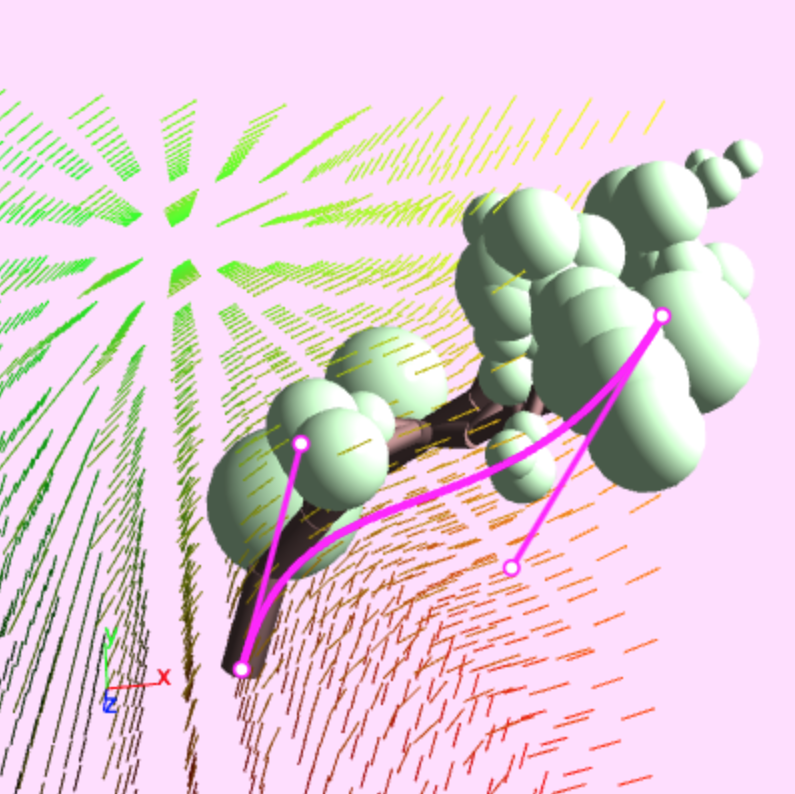
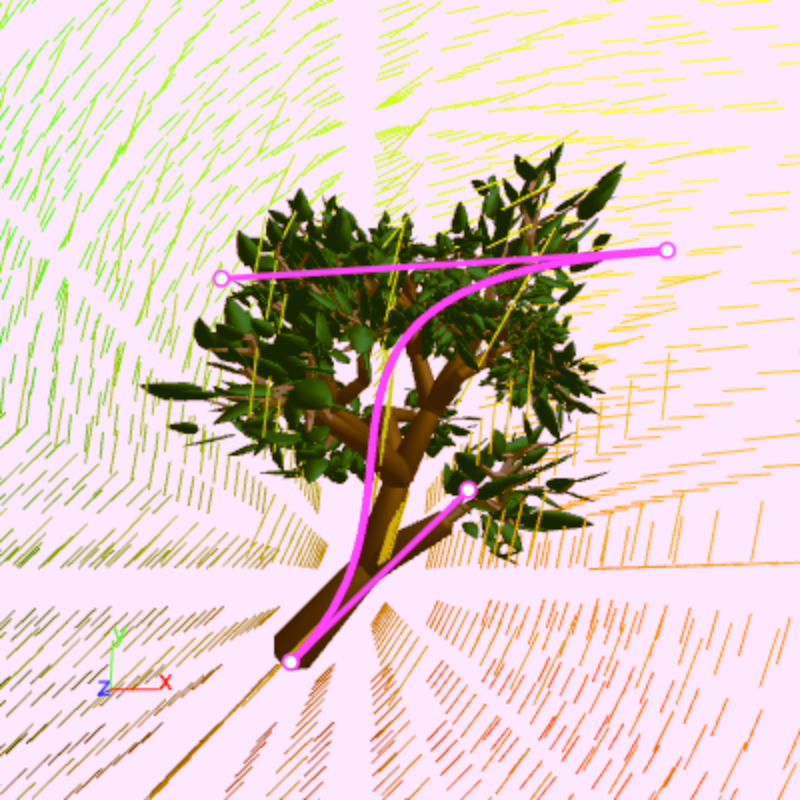
Finish post

diff --git a/content/blog/procedural-modelling.html b/content/blog/procedural-modelling.html
@@ -2,7 +2,9 @@
 {
   "title": "Improving the procedural modelling workflow",
   "category": "blog",
-  "date": "2018-11-14",
+  "date": "2018-11-17",
+  "thumbnail": "%root%/content/images/2018/11/tree-render-thumbnail.jpg",
+  "og-image": "%root%/content/images/2018/7/example.png",
   "excerpt": "A discussion of the most tedious parts of something made to make modelling less tedious, and how they can be improved."
 }
 -->
@@ -11,11 +13,13 @@ There are a lot of things in art that are hard, but are *especially* hard in 3D.
 
 Say you wanted to make a forest landscape. If this were a painting, you probably wouldn't paint every leaf on every tree. Firstly, you don't have to worry about the ones you can't see. But even for the ones you can see, you're able to get away with using less detail in areas that aren't the focus. The patterns can be abstracted into dabs of paint that give the impression of leaves without the effort of clearly defining each one.
 
+<img src="%root%/content/images/2018/11/mc-trees-medium.jpg" full="%root%/content/images/2018/11/mc-trees.jpg" caption="Detail of some trees in a digital paintaing of mine, demonstrating my freedom to not add much detail." />
+
 3D doesn't afford this luxury. For better or for worse, everything in 3D graphics as we know it must be attached to some well-defined form. There's no way to dab a brush here and there just yet. Less detail could be used off in the distance, but in many cases, 3D is being used specifically so that a world can be inhabited, walked around, and explored, so there may not be a region that's "in the distance" all the time.
 
 You can try to save effort by modelling a tree and copy-and-pasting it around. Of course, the difficulty with this is that the regularity will look unnatural. You can rotate and distort them as you go to add some variation, and that may help, but it can only go so far. To get rid of that unwanted regularity, you'd want to apply the same process to components of each pasted tree, not just the whole thing, so that the overall model looks different. While this may be faster than modelling each tree from scratch, this still ends up being a lot of manual effort.
 
-It gets to a point where it becomes easier to describe the *procedure* with which models are created than to create the models by hand. This is what procedural modelling is: where you create a program of sorts that then creates models.
+It gets to a point where it becomes easier to describe the *procedure* with which models are created than to create the models by hand. This is what procedural modelling is: the creation of a program of sorts that then creates models. I've spent a fair amount of time recently trying to make this process better, so I'm going to explain some background and the techniques I used.
 
 ## Generating from grammars
 
@@ -120,7 +124,7 @@ Now, let's make a tree that branches into two each time. Instead of scaling and 
   <tr>
     <th>`BRANCH`</th><td>`lineTo(0, -50)` `translate(0, -50)` `circle(30)` (`SUB_BRANCHES` | &epsilon;)</td>
   </tr>
-  <tr>
+  <tr class="highlighted">
     <th>`SUB_BRANCHES`</th><td>`scale(0.5)` `[` `rotate(-30)` `BRANCH` `]` `[` `rotate(20)` `BRANCH` `]`</td>
   </tr>
 </table>
@@ -131,7 +135,7 @@ This is what happens when you generate trees using the stack of remembered orien
 
 This lets us express a lot of ideas, but it suffers from the problem mentioned earlier when discussing copy-and-pasting: it looks too regular. We can introduce random variation into our grammar by replacing concrete numbers with `random(a, b)`, which, when interpreted by the drawing program, will generate a random number between `a` and `b` inclusive.
 
-Here's our grammar again, with random variation added:
+Here's our grammar again, with random variation added in the highlighted rule definition:
 
 <table>
   <tr>
@@ -143,7 +147,7 @@ Here's our grammar again, with random variation added:
   <tr>
     <th>`SOME_BRANCHES`</th><td>`SCALED_BRANCH` (`SOME_BRANCHES` | &epsilon;)</td>
   </tr>
-  <tr>
+  <tr class="highlighted">
     <th>`SCALED_BRANCH`</th><td>`[` `scale(random(0.4, 0.8))` `rotate(random(-40, 40))` `BRANCH` `]`</td>
   </tr>
 </table>
@@ -177,7 +181,7 @@ How would you cap the number of chained clauses to, say, four? There's no magic 
 
 <table>
   <tr><th>`SENTENCE`</th><td>`CLAUSE` `COMPOUND`</td></tr>
-  <tr><th>`COMPOUND`</th><td>(`and` `CLAUSE` | &epsilon;) (`and` `CLAUSE` | &epsilon;) (`and` `CLAUSE` | &epsilon;) (`and` `CLAUSE` | &epsilon;)</td></tr>
+  <tr class="highlighted"><th>`COMPOUND`</th><td>(`and` `CLAUSE` | &epsilon;) (`and` `CLAUSE` | &epsilon;) (`and` `CLAUSE` | &epsilon;) (`and` `CLAUSE` | &epsilon;)</td></tr>
   <tr><th>`CLAUSE`</th><td>`NOUN` `VERB_PHRASE`</td></tr>
   <tr><th>`VERB_PHRASE`</th><td>`VERB` (`NOUN` | &epsilon;)</td></tr>
   <tr><th>`NOUN`</th><td>`abacus` | `babboon` | `cantaloupe` | ...</td></tr>
@@ -197,7 +201,7 @@ Especially when dealing with grammars, it can often be easier to specify whether
 We can assign a score to every picture representing how close its silhouette is to the target. It might look something like this, in pseudocode:
 
 <code>
-function score(image, target) {
+function score(image) {
   // First, fill all the shapes in the outputted image
   // to get its silhouette
   let filled = flood_fill_all_gaps(image)
@@ -230,7 +234,7 @@ When we define a grammar, we are also defining the set of all possible things it
   <li><strong>Every time `random(a, b)` is used.</strong> If this produces a random value from a continuous distribution, then technically there is a probability of 0 that a specific value is chosen (e.g. 0.5 rather than 0.4999... or 0.500...01.) In practice, as a substitute, we can look at the random number generator's <a href="https://en.wikipedia.org/wiki/Probability_density_function">probability density function (pdf)</a> as a measure of how likely a given value is compared to other values. The total area under a pdf curve from negative infinity to infinity is always 1, and is distributed across that domain according to how likely that region is to be generated. If `random(0, 1)` is uniformly distributed, the pdf of any value between 0 and 1 is 1, indicating that they are equally likely.</li>
 </ol>
 
-Even if we ignore the second case, our grammar requires making one choice for every branch present after the first one. There are eight branches off of the base one in the tree above, so the probability of generating the same structure of that tree is 0.5<sup>8</sup> = 0.00390625. If we make a generous approximation and assume `random()` generates one of ten values within a given range each time, because each branch makes two of these calls, we introduce a factor of (0.1 &times; 0.1)<sup>8</sup> = 1 &times; 10<sup>-16</sup>. Altogether, that's around 3.9 &times; 10<sup>-19</sup>. You will need a lot of random samples to generate a tree in this particular configuration.
+Starting with the first case, our grammar requires making one choice for every branch present after the first one. There are eight branches off of the base one in the particular tree shown earlier, so the probability of generating the same structure of that tree is 0.5<sup>8</sup> = 0.00390625. To look at the second case, if we make a generous approximation and assume `random()` generates one of ten values within a given range each time, then because each branch makes two of these calls, we introduce a factor of (0.1 &times; 0.1)<sup>8</sup> = 1 &times; 10<sup>-16</sup>. Altogether, that's around 3.9 &times; 10<sup>-19</sup>. You will need a lot of random samples to generate a tree in this particular configuration. This is all a contrived example, since we never have *one* exact tree we are hoping to produce, but the point here is that there are many possibilities in the grammar output.
 
 Luckily, there are ways to focus the search.
 
@@ -271,8 +275,8 @@ Since the source code for a program conforms to a grammar just like human langua
 And then you maybe have a line like this in your program:
 
 <table>
-  <tr><th>`something`</th><th rowspan="4">`=`</th><th>`something`</th><th>`+`</th><th>`1`</th></tr>
-  <tr><td rowspan="3">IDENTIFIER</td><td rowspan="2">IDENTIFIER</td><td rowspan="2">OPERATOR</td><td>NUMBER</td></tr>
+  <tr><th>`something`</th><th rowspan="4">`=`</th><th>`something`</th><th>`+`</th><th class="highlighted">`1`</th></tr>
+  <tr><td rowspan="3">IDENTIFIER</td><td rowspan="2">IDENTIFIER</td><td rowspan="2">OPERATOR</td><td class="highlighted">NUMBER</td></tr>
   <tr><td>EXPRESSION</td></tr>
   <tr><td colspan="3">EXPRESSION</td></tr>
   <tr><td colspan="5">ASSIGNMENT</td></tr>
@@ -281,9 +285,9 @@ And then you maybe have a line like this in your program:
 To generate a mutant, we want to replace some subtree of the breakdown above with a different option from the grammar. We can see that there is an `EXPRESSION` rule which is just a `NUMBER` with a `1` in it. We could replace it with a different `EXPRESSION` that is just as valid, such as `1 / 8`.
 
 <table>
-  <tr><th>`something`</th><th rowspan="5">`=`</th><th>`something`</th><th>`+`</th><th>`1`</th><th>`/`</th><th>`8`</th></tr>
-  <tr><td rowspan="4">IDENTIFIER</td><td rowspan="3">IDENTIFIER</td><td rowspan="3">OPERATOR</td><td rowspan="2">NUMBER</td><td rowspan="2">OPERATOR</td><td>NUMBER</td></tr>
-  <tr><td>EXPRESSION</td></tr>
+  <tr><th>`something`</th><th rowspan="5">`=`</th><th>`something`</th><th>`+`</th><th class="highlighted">`1`</th><th class="highlighted">`/`</th><th class="highlighted">`8`</th></tr>
+  <tr><td rowspan="4">IDENTIFIER</td><td rowspan="3">IDENTIFIER</td><td rowspan="3">OPERATOR</td><td rowspan="2" class="highlighted">NUMBER</td><td rowspan="2" class="highlighted">OPERATOR</td><td class="highlighted">NUMBER</td></tr>
+  <tr><td class="highlighted">EXPRESSION</td></tr>
   <tr><td colspan="3">EXPRESSION</td></tr>
   <tr><td colspan="5">EXPRESSION</td></tr>
   <tr><td colspan="7">ASSIGNMENT</td></tr>
@@ -291,7 +295,7 @@ To generate a mutant, we want to replace some subtree of the breakdown above wit
 
 The hope is that some test notices that things stop working the same way after making this mutation, and if it doesn't notice, we should write a test that uses this part of the source code.
 
-For MCMC sampling of our images, we do something similar. An image is actually the product of a decision tree we made as we broke down rules into more rules to generate the drawing instructions. We can make a new image by taking a subtree of the original image's drawing instructions grammar breakdown and replacing it with a different but also valid subtree. When picking a subtree to replace, we want to have the likelihood of a given subtree being replaced to be proportional to the likelihood of that subtree being generated in the first place so that we don't spend a disproportionate amount of time messing around in the little details of the extremities of a shape. We already talked about how likely a whole image is to be generated, and the likelihood of a subtree being generated is pretty much the same. The only difference is that we start looking at choices made at the beginning of the subtree rather than at the very start of the whole breakdown.
+For MCMC sampling of our images, we do something similar. An image is actually the product of a decision tree we made as we broke down rules into more rules to generate the drawing instructions. We can make a new image by taking a subtree of the original image's drawing instructions grammar breakdown and replacing it with a different but also valid subtree. When picking a subtree to replace, we want to have the likelihood of a given subtree being replaced to be proportional to the likelihood of that subtree being generated in the first place so that we don't spend a disproportionate amount of time messing around in the little details of the extremities of a shape. We already talked about how likely a whole image is to be generated, and the likelihood of a subtree being generated is pretty much the same. The only difference is that we start looking at choices made at the beginning of a *sub*tree rather than at the very top of the whole breakdown.
 
 <img width="900" src="%root%/content/images/2018/11/subtree-replacement.png" full="%root%/content/images/2018/11/subtree-replacement.png" caption="A mutation involves picking a subtree of drawing instructions generated by the grammar and replacing them with a different but also valid subtree." />
 
@@ -301,7 +305,9 @@ Unfortunately, MCMC sampling with a silhouette-matching score function is still 
 
 One issue is that it is not "cheap" to generate a final image for each sample in each iteration of the MCMC process. Because a piece of the shape is removed and recreated differently in each successive sample, the image can't be reused, so it gets thrown out and regenerated from scratch. If we were only adding to the previous sample, though, we could keep the old image and modify it, which saves valuable computation time.
 
-This is where Sequential Monte Carlo (SMC) sampling becomes useful. SMC sampling was created for making probabilistic inferences as incremental information comes in. In our case, rather than taking a complete shape and mutating it, we can use SMC to guide the search as each rule in the grammar is incrementally broken down into more rules. Rather than having one reference shape at a time, SMC holds multiple shapes in each iteration. They all start out as a top-level grammar rule waiting to be broken down. In each sampling iteration, every shape is broken down by one increment. The score of each shape is then calculated. If there were *n* shapes in this sampling iteration, *n* shapes are picked to be expanded for the next generation, where shapes with higher scores are more likely to be picked. This means that a very promising partially-generated shape from one iteration can appear multiple times in the next iteration, where each copy continues to be generated independently. This helps the algorithm spend more time exploring the various subtrees of higher-scoring shapes.
+This is where <a href="https://cocolab.stanford.edu/papers/RitchieEtAl2015-SIGGRAPH.pdf">Sequential Monte Carlo (SMC) sampling</a> becomes useful. SMC sampling was created for making probabilistic inferences as incremental information comes in. In our case, rather than taking a complete shape and mutating it, we can use SMC to guide the search as each rule in the grammar is incrementally broken down into more rules, where samples break down one piece in each iteration of the algorithm. When we calculate `score(sample)`, since the sample is only different from its "parent" due to the addition of one expanded grammar rule, we can instead calculate `score_from_parent + score(new piece)`, where `score_from_parent` has already been computed from the last round of sampling, so the only new computation is done for the single piece that has been added.
+
+Rather than having one reference shape at a time, SMC holds multiple shapes in each iteration. They all start out as a top-level grammar rule waiting to be broken down. In each sampling iteration, every shape is broken down by one increment. If there were *n* shapes in this sampling iteration, *n* shapes are picked to be expanded for the next generation, where shapes with higher scores are more likely to be picked. This means that a very promising partially-generated shape from one iteration can appear multiple times in the next iteration, where each copy continues to be generated independently. This helps the algorithm spend more time exploring the various subtrees of higher-scoring shapes.
 
 This is the algorithm, written out:
 
@@ -315,3 +321,102 @@ This is the algorithm, written out:
 </ol>
 
 <img width="800" src="%root%/content/images/2018/11/smc.png" full="%root%/content/images/2018/11/smc.png" caption="SMC spending more time expanding the samples in the previous generation that had the best scores." />
+
+## Better score functions
+
+So far, I've just been giving examples for 2D procedural generation. What does a score function look like in 3D? We could still use silhouette matching, but this has some downsides:
+
+<ul>
+  <li>Rendering a 3D scene into a 2D view is expensive, and we have to do it for many samples over the course of one search.</li>
+  <li>A silhouette is 2D, so we would only be specifying appearance from one angle, which can be interesting, but isn't super useful.</li>
+</ul>
+
+To address the second point, you can imagine extending the silhouette to 3D. An artist could provide a target 3D shape to fill. This comes with its own concerns:
+
+<ul>
+  <li>Computing 3D space utilization is also fairly expensive. It typically involves voxelizing the model and constructing 3D grids or octrees to record which voxel regions are occupied.</li>
+  <li>It's a lot easier to draw a target silhouette than to create a target 3D shape. If you have to model a target shape, it's not that much more effort to just create the final model by hand.</li>
+</ul>
+
+Both of these methods unfortunately still take seconds to run, so artists can't make changes and get realtime feedback.
+
+In an ideal scenario, here's what we would want out of our score function:
+<ul>
+  <li>It should be easy for an artist to specify. For example, they shouldn't have to create a detailed 3D model to use the score function.</li>
+  <li>It shouldn't overconstrain the search. We *want* some amount of variation in resulting models, otherwise we wouldn't be using procedural modelling.</li>
+  <li>It should work well in 3D.</li>
+  <li>The score for a sample should be able to be computed as an addition to the score for the sample's parent so that SOSMC works efficiently.</li>
+  <li>It should be computationally inexpensive so that the search can be run at interactive rates.</li>
+</ul>
+
+### Model skeletons
+
+Most of the computational inefficiencies in 3D come from dealing with complex geometry. Creating a bitmap image from a model to use in a silhouette comparison involves first applying perspective to every vertex, and then filling in each pixel between these vertices. Matching a target shape in 3D doesn't require perspective to be applied to each vertex, but then instead of filling in pixels, time has to be spent filling in voxels. It is helpful, then, to not look at geometry when making a score function.
+
+Models generated from procedural grammars tend to have some sort of underlying structure in the placement of pieces, regardless of the pieces themselves. In the context of our earlier 2D grammar, I'm talking about the heirarchy produced by saving and restoring paper positions that were made with `translate`, `rotate`, and `scale`. If, every time we change the orientation of the paper, we were to draw a line between the current pen position and the last pen position atop the paper, we would be drawing what looks like the skeleton of the shape. Here is what it looks like in 3D when you do this, connecting points with some diamonds instead of lines:
+
+<div class="row">
+  <div class="column uncentered">
+    <img width="400" src="%root%/content/images/2018/11/tree-no-bones.jpg" full="%root%/content/images/2018/11/tree-no-bones.jpg" caption="A 3D tree, made from simple geometry, like our 2D variant." />
+  </div>
+  <div class="column uncentered">
+    <img width="400" src="%root%/content/images/2018/11/tree-bones.jpg" full="%root%/content/images/2018/11/tree-bones.jpg" caption="The skeleton of the tree, visualized." />
+  </div>
+</div>
+
+The nice thing about working with these skeletons is that each "bone" in the skeleton is only defined by two points (or a point and a direction vector.) As long as the final geometry we attach aligns with the hierarchy, we can use a score function that operates on these bones. This isn't a huge assumption, as it takes extra wasted effort for an artist to create a heirarchy and then place geometry that isn't aligned with it. Most models follow this sort of heirarchy, even for models that aren't trees. For example, here is a cathedral, and even with a tangled mess of bones, it is clear that the shapes produced by the geometry and the skeleton are aligned.
+
+<div class="row">
+  <div class="column uncentered">
+    <img width="400" src="%root%/content/images/2018/11/cathedral-no-bones.jpg" full="%root%/content/images/2018/11/cathedral-no-bones.jpg" caption="A 3D cathedral, where imported 3D models are used as building blocks instead of primitive shapes." />
+  </div>
+  <div class="column uncentered">
+    <img width="400" src="%root%/content/images/2018/11/cathedral-bones.jpg" full="%root%/content/images/2018/11/cathedral-bones.jpg" caption="The skeleton of the cathedral, visualized." />
+  </div>
+</div>
+
+### Guiding curves
+
+One way to get a score for a model based only off of its skeleton is to compare the bones in the skeleton to guiding curves that an artist draws. For each new bone added when expanding grammar rules, the score is based off of two things:
+
+<ol>
+  <li>**Alignment with the guiding curves.** The direction of the bone is compared with the direction of the closest guiding curve at the closest point on the curve. Bones that are more precisely aligned get a higher score.</li>
+  <li>**Distance from the guiding curves.** Bones that are closer to a guiding curve get a higher score.</li>
+</ol>
+
+Together, these two factors encourage bones that stick close to the guides and go in the same direction (as opposed to oscillating around the curve.)
+
+<div class="row">
+  <div class="column">
+    <img src="%root%/content/images/2018/10/cost_function_diagram-medium.jpg" full="%root%/content/images/2018/10/cost_function_diagram.png" caption="The information the score function operates on when adding a new bone." />
+  </div>
+  <div class="column">
+    <img src="%root%/content/images/2018/10/vectorfield.png" full="%root%/content/images/2018/10/vectorfield.png" caption="The alignments for each point in space around some guides, coloured to represent the distance score for that location." />
+  </div>
+</div>
+
+But how easy is it to sketch curves in 3D? It turns out, it's not too difficult. When drawing, imagine that, in the center of the 3D scene, there is a glass wall facing the camera. When you draw a new curve, it gets drawn in 3D space as if it were on this glass wall. Edits to the curve similarly operate only on the plane of this wall. To make changes on a different plane, the camera can simply be rotated and repositioned. Here's what that process looks like:
+
+<img src="%root%/content/images/2018/11/curves.gif" full="%root%/content/images/2018/11/curves.gif" caption="Drawing and editing guiding curves." />
+
+You'll notice that, after drawing or editing a curve, the feedback is pretty immediate. This is something that isn't easily achieved when doing any silhouette or volume matching search.
+
+## What can you do with this?
+
+So far I've mostly shown trees built out of simple shapes. This technique starts becoming especially useful once one starts using more complicated models and grammars.
+
+Here are some models created with guiding curves, shown rendered nicely along with the guides used to produce the model. 3D models were imported and used as building blocks that the grammar can then position and drop into the scene. Models generated by the grammar were exported and rendered in Blender.
+
+<img src="%root%/content/images/2018/11/tree-large.jpg" full="%root%/content/images/2018/11/tree.jpg" caption="A procedural tree." />
+
+<img src="%root%/content/images/2018/11/cathedral-large.jpg" full="%root%/content/images/2018/11/cathedral.jpg" caption="A procedural cathedral." />
+
+## What's next?
+
+This work is largely a proof-of-concept. While I find it useful for my own tinkering and modelling purposes, experimenting with it has brought to light other parts of the procedural modelling workflow that could use work.
+
+There are enhancements to the guiding curves score function that would be valuable for artists. Applications requiring control of areas and volumes could receive better support. If it can be done while keeping computation time low, it would be useful to give curves finite, specifiable thickness over their lengths. It could provide a more intuitive way to specify regions that uniformly encourage growth. Another extension might include a target density to discourage too many bones from being added in the same region.
+
+While I've spent most of my time talking about ways to efficiently and intuitively search for models created by a grammar, creating the grammar in the first place is still an art requiring a fair amount of skill. When creating a grammar to use with guiding curves, there are still many abstract concepts that you need to keep in your head. Relative coordinate spaces have to be kept in mind when specifying where to place bones, as well as the distribution of bones that will be created when introducing random variation. It would be incredibly useful to spend time thinking about how to make an approachable interface for creating grammars. I would like to be able to define rules visually, seeing the range of space in which bones could potentially spawned, and combine rules with randomization more confidently.
+
+I hope that some of the ideas here can be helpful in producing computer-generated art in new and interesting ways.

diff --git a/content/programming/guiding-curves.html b/content/programming/guiding-curves.html
@@ -11,7 +11,7 @@
     {"name": "Tammy Liu"}
   ],
   "details": "We present a likelihood function for Sequential Monte Carlo sampling that lets artists draw guiding curves to control the output of generating grammars. This  framework enables the high-level structure of models to be intuitively specified while allowing for sufficient variation in the low-level details. Our method can be computed at interactive rates to enable the short feedback loops required for exploratory design.",
-  "art": "%root%/content/images/2018/10/calder-examples.png",
+  "art": "%root%/content/images/2018/11/tree-examples.jpg",
   "buttons": [
       {
           "url": "https://github.com/calder-gl/calder",
@@ -51,7 +51,7 @@ An alternative is to search the space of models produced by a grammar for sample
 
 We created <a href="https://github.com/calder-gl/playground">an editor</a> that lets you write a grammar and then explore the space of models generated by the grammar by drawing guiding curves.
 
-<img src="%root%/content/images/2018/10/bezier-editing-small.gif" full="%root%/content/images/2018/10/bezier-editing-small.gif" caption="Demonstration of editing guiding curves and getting real-time feedback." />
+<img src="%root%/content/images/2018/11/curves.gif" full="%root%/content/images/2018/11/curves.gif" caption="A demonstration of drawing and editing guiding curves and getting real-time feedback." />
 
 When we generate a model, we start by just constructing a *skeleton* of the model. Curves are used to assign a cost to "bones" of the skeleton, and we run optimization to find a skeleton with the lowest total cost. We then turn the skeleton into an actual model by adding final geometry to the bones.
 
@@ -78,3 +78,9 @@ To help with this, for every type of component that a grammar can have, we sampl
 
 
 <img width="600" src="%root%/content/images/2018/10/heuristic.png" full="%root%/content/images/2018/10/heuristic.png" caption="A comparison of final model cost distributions with and without using heuristic costs in a time limit of 200ms. Alignment offsets of 0.6 and 0.5 were used, respectively." />
+
+## Examples
+
+<img src="%root%/content/images/2018/11/tree-large.jpg" full="%root%/content/images/2018/11/tree.jpg" caption="A procedural tree." />
+
+<img src="%root%/content/images/2018/11/cathedral-large.jpg" full="%root%/content/images/2018/11/cathedral.jpg" caption="A procedural cathedral." />

diff --git a/style.css b/style.css
@@ -53,6 +53,12 @@ th {
   font-weight: bold;
   background-color: #f7f7f7;
 }
+.highlighted th, th.highlighted {
+  background-color: #fff5af;
+}
+.highlighted td, td.highlighted {
+  background-color: #fffce0;
+}
 table {
   border-spacing: 0;
   border-collapse: collapse;
